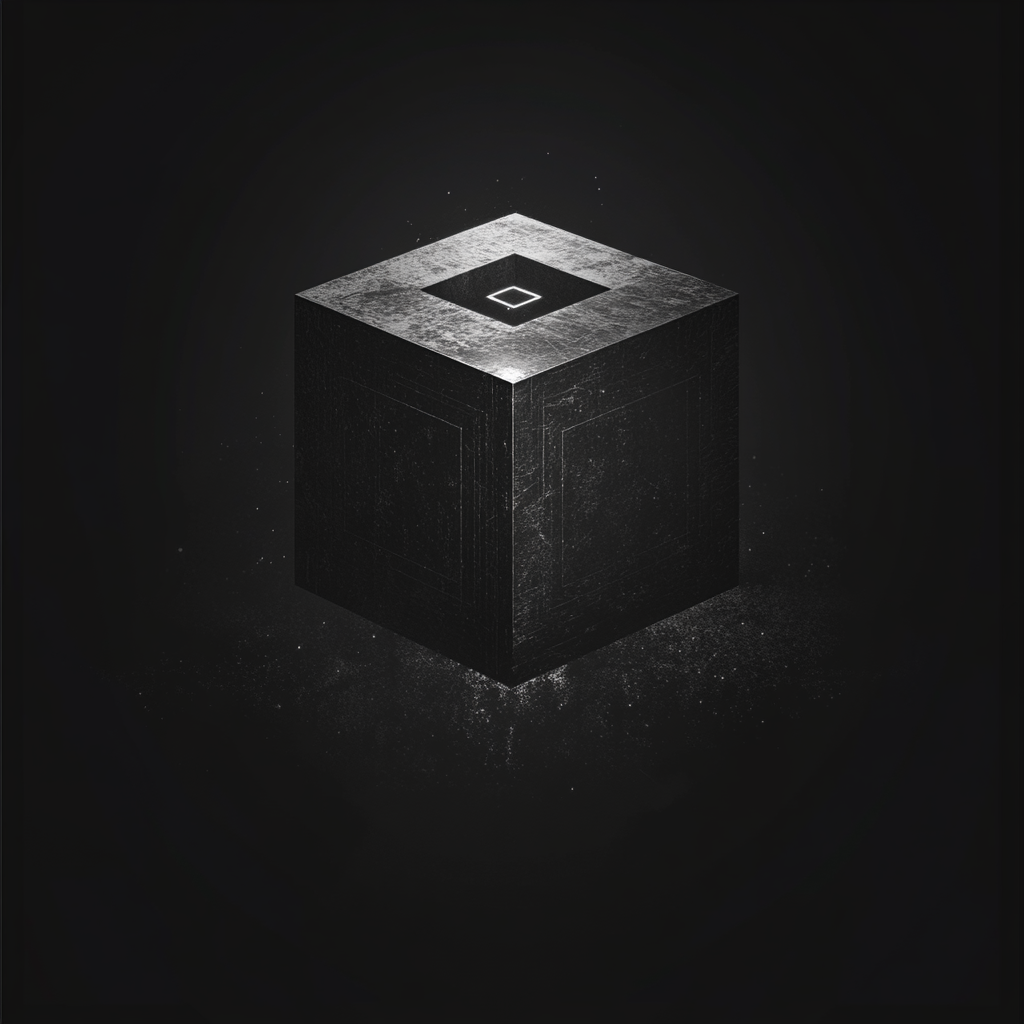
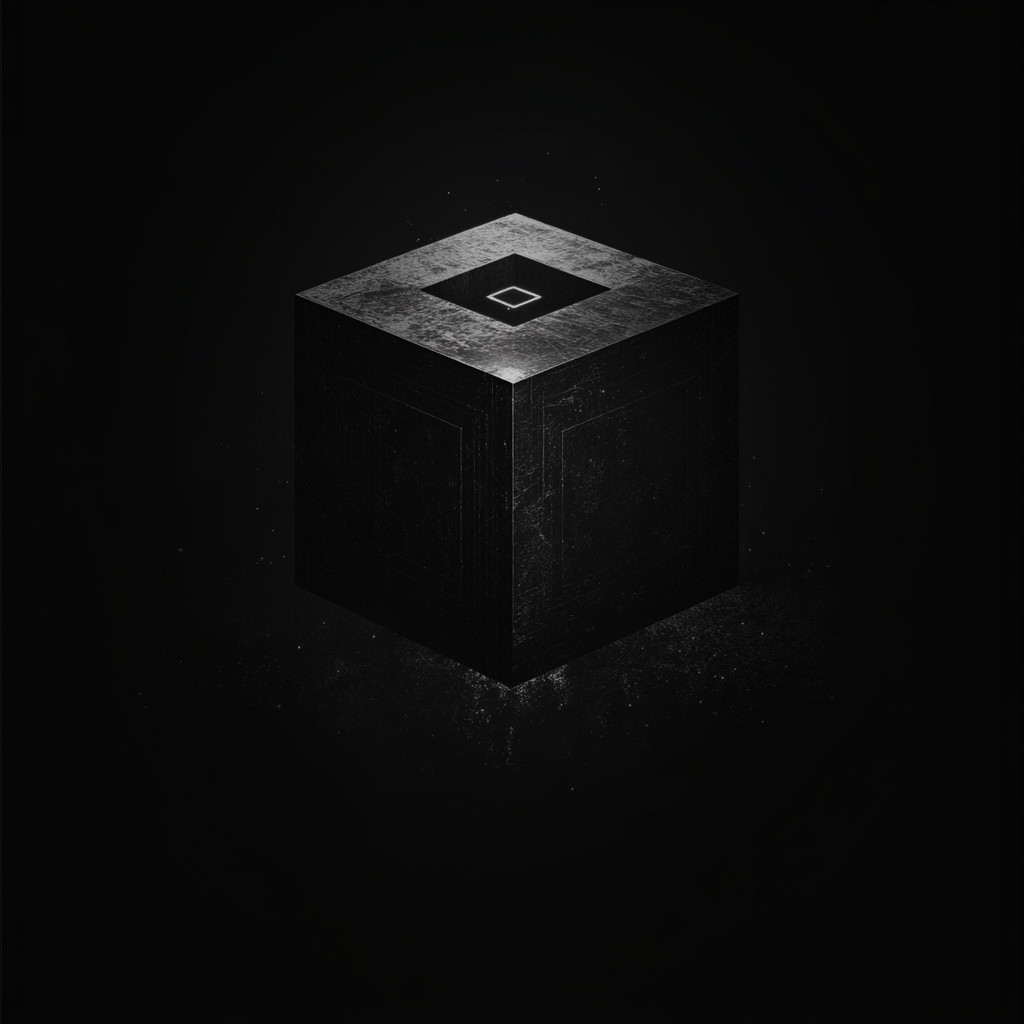
feat: add sharing endpoints and update album-card layout for sensitive content

Changed region(s): [[0.2812, 0.1875, 0.7188, 0.625], [0.4375, 0.6562, 0.5625, 0.6875], [0.625, 0.5938, 0.6875, 0.625]]

diff --git a/apps/web/components/album-card.tsx b/apps/web/components/album-card.tsx
@@ -312,35 +312,38 @@ export const AlbumCard = ({album, onDelete}: {album: Album, onDelete: () => void
 											transform: getRandomRotation(1)
 										}}
 									>
-										<Image src={
-											album.isProtected && album.isSensitive
-												? sensiProtectBanner
-												: album.isProtected
-													? protectedBanner
-													: sensitiveBanner
-										} alt="" className="object-cover w-full h-full"/>
+										<Image
+											src={
+												album.isProtected && album.isSensitive
+													? sensiProtectBanner
+													: album.isProtected
+														? protectedBanner
+														: sensitiveBanner
+											} alt="" className="object-cover w-full h-full"
+											placeholder="blur"
+										/>
 
 										{album.isProtected && !album.isSensitive && (
 											<div
-												className="p-2 flex flex-col gap-2 items-center absolute top-1/2 left-1/2 -translate-x-1/2 -translate-y-1/2">
+												className="p-2 w-full flex flex-col gap-2 items-center absolute top-1/2 left-1/2 -translate-x-1/2 -translate-y-1/2">
 												<LockIcon
 													className="w-10 h-10 opacity-60 group-hover:opacity-100 transition-opacity"/>
-												<p className="whitespace-nowrap text-center opacity-0 group-hover:opacity-100 transition-opacity">This
+												<p className="text-center opacity-0 group-hover:opacity-100 transition-opacity">This
 													album is protected</p>
 											</div>
 										)}
 										{album.isSensitive && !album.isProtected && (
 											<div
-												className="p-2 flex flex-col gap-2 items-center absolute top-1/2 left-1/2 -translate-x-1/2 -translate-y-1/2">
+												className="p-2 w-full flex flex-col gap-2 items-center absolute top-1/2 left-1/2 -translate-x-1/2 -translate-y-1/2">
 												<EyeOffIcon
 													className="w-10 h-10 opacity-60 group-hover:opacity-100 transition-opacity"/>
-												<p className="whitespace-nowrap text-center opacity-0 group-hover:opacity-100 transition-opacity">This
+												<p className="text-center opacity-0 group-hover:opacity-100 transition-opacity">This
 													album is sensitive</p>
 											</div>
 										)}
 										{album.isProtected && album.isSensitive && (
 											<div
-												className="p-2 flex flex-col gap-2 items-center absolute top-1/2 left-1/2 -translate-x-1/2 -translate-y-1/2">
+												className="p-2 w-full flex flex-col gap-2 items-center absolute top-1/2 left-1/2 -translate-x-1/2 -translate-y-1/2">
 												<div className="flex items-center gap-2">
 													<EyeOffIcon
 														className="w-10 h-10 opacity-60 group-hover:opacity-100 transition-opacity"/>
@@ -348,8 +351,9 @@ export const AlbumCard = ({album, onDelete}: {album: Album, onDelete: () => void
 														className="w-10 h-10 opacity-60 group-hover:opacity-100 transition-opacity"/>
 												</div>
 
-												<p className="whitespace-nowrap text-center opacity-0 group-hover:opacity-100 transition-opacity">This
-													album is protected & protected</p>
+												<p className="w-full text-center opacity-0 group-hover:opacity-100 transition-opacity">
+													This album is sensitive & protected
+												</p>
 											</div>
 										)}
 									</div>

diff --git a/packages/ui/src/styles/globals.css b/packages/ui/src/styles/globals.css
@@ -5,9 +5,9 @@
 
 @layer base {
   :root {
-    --dark: 0 0% 7%;
+      --dark: 0 0% 3.9%;
 
-    --background: 169 0% 95%;
+      --background: 0 0% 3.9%;
     --foreground: 169 0% 7%;
     --card: 169 0% 90%;
     --card-foreground: 169 0% 10%;
@@ -43,7 +43,7 @@
   }
 
   .dark {
-    --background: 169 10% 7%;
+      --background: 0 0% 3.9%;
     --foreground: 169 0% 90%;
     --card: 169 0% 7%;
     --card-foreground: 169 0% 90%;

diff --git a/docs/api-endpoints.md b/docs/api-endpoints.md
@@ -285,3 +285,100 @@ All endpoints except /auth/login and /auth/register require:
 - Authorization header with valid JWT
 - Content-Type header
 - Accept header
+
+### 6 Sharing Endpoints
+
+#### POST /api/shared
+
+Creates a shareable link for photos or albums
+
+```ts
+Request:
+{
+    photoIds ? : string[],    // Array of photo IDs to share
+        albumIds ? : string[],    // Array of album IDs to share
+        expiryOption
+:
+    '1h' | '24h' | '3d' | '7d' | '30d',  // Link expiration time
+        pin ? : string           // Optional 4-digit PIN for protected content
+}
+
+Response:
+{
+    shareLink: {
+        id: string,
+            token
+    :
+        string,
+            isPinProtected
+    :
+        boolean,
+            expiresAt
+    :
+        Date,
+            createdAt
+    :
+        Date
+    }
+,
+    shareUrl: string      // Complete URL for sharing
+}
+```
+
+#### GET /api/shared/[token]
+
+Retrieves shared content using a share token
+
+```ts
+Response:
+{
+    shareType: 'photo' | 'album',
+        isPinProtected
+:
+    boolean,
+        expiresAt
+:
+    Date,
+        photos ? : [{          // Present if shareType is 'photo'
+            id: string,
+            originalFilename: string,
+            mimeType: string,
+            encryptedFileKey: string,
+            fileKeyIv: string,
+            imageWidth: number,
+            imageHeight: number,
+            url: string,     // Pre-signed download URL
+            createdAt: Date
+        }],
+        albums ? : [{          // Present if shareType is 'album'
+            id: string,
+            name: string,
+            isSensitive: boolean,
+            isProtected: boolean,
+            createdAt: Date,
+            updatedAt: Date,
+            photos: [{       // Photos in the album
+                id: string,
+                originalFilename: string,
+                mimeType: string,
+                encryptedFileKey: string,
+                fileKeyIv: string,
+                imageWidth: number,
+                imageHeight: number,
+                url: string,
+                createdAt: Date
+            }]
+        }]
+}
+```
+
+Key Features:
+
+- Share individual photos or entire albums
+- Configurable expiration times (1 hour to 30 days)
+- Optional PIN protection for sensitive content
+- PIN protection is mandatory for sharing sensitive or protected albums
+- Secure sharing with unique tokens
+- Pre-signed URLs for secure content access
+- Automatic expiration of shared links
+- Encrypted content remains secure in shared links
